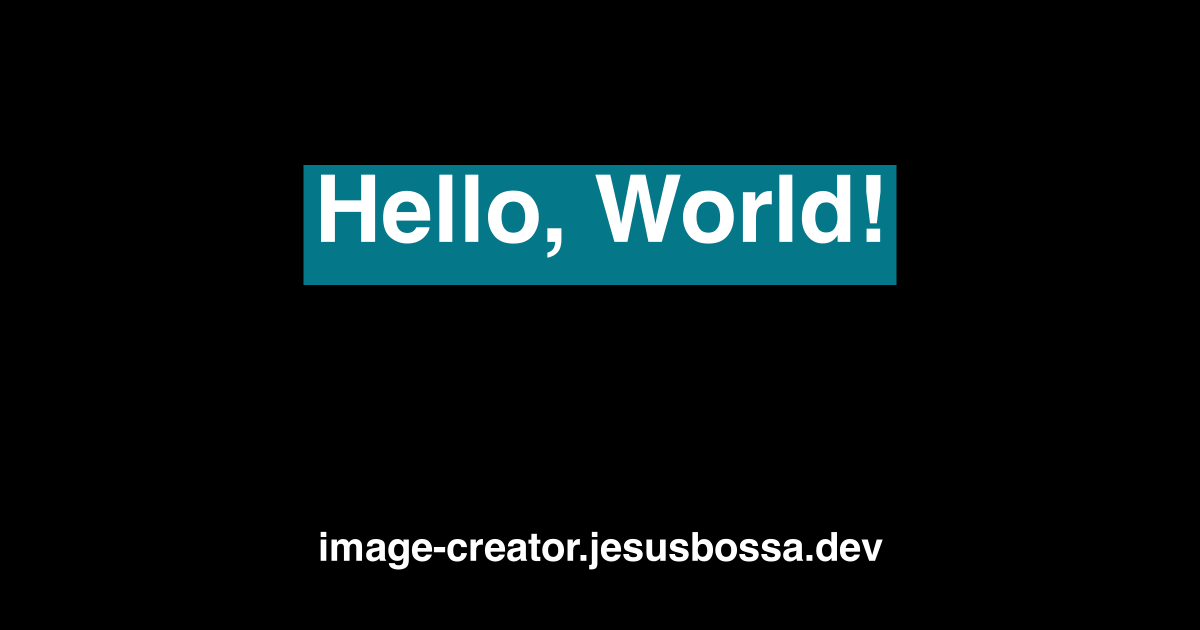
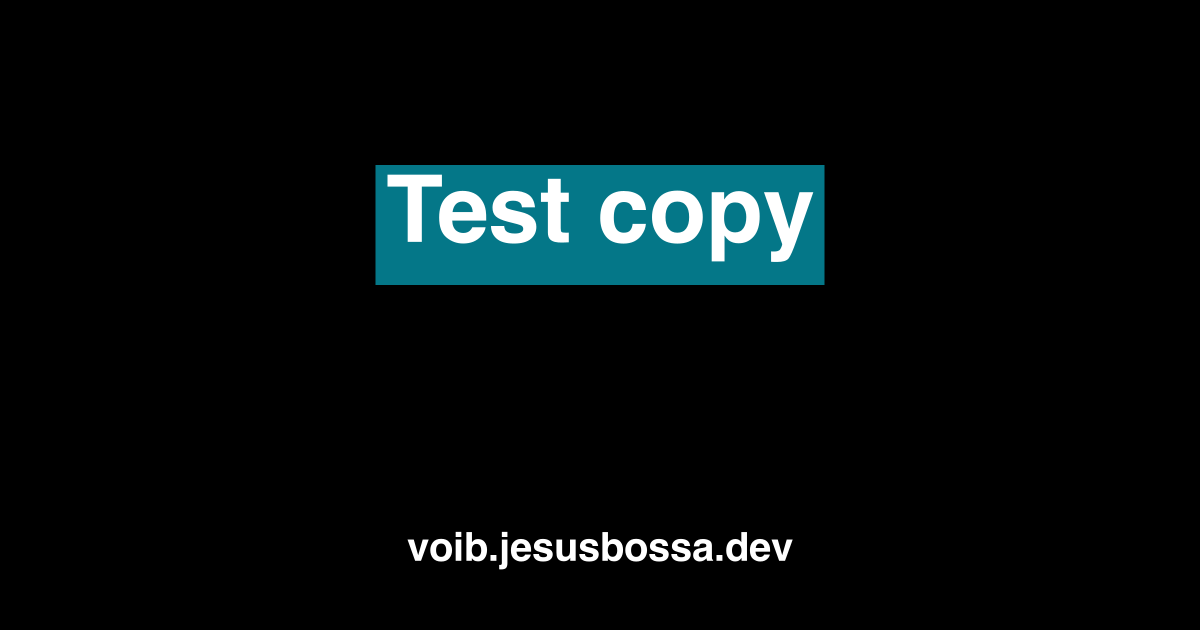
feat: creating images dinamicaly

Changed region(s): [[0.2467, 0.2413, 0.7708, 0.4524], [0.2467, 0.8444, 0.74, 0.9048]]

diff --git a/gatsby-node.js b/gatsby-node.js
@@ -3,22 +3,25 @@ const fs = require('fs');
 const { CreateImage } = require('@makinox/image-creator');
 const { createFilePath } = require('gatsby-source-filesystem');
 
-exports.onCreateNode = ({ node, getNode, actions }) => {
+exports.onCreateNode = async ({ node, getNode, actions }) => {
   if (node.internal.type === `MarkdownRemark`) {
-    // console.log('Creating imagessss');
     const metadata = node.frontmatter;
-    // console.log({ metadata, getNode });
+
     if (metadata.timage === 'no') {
       const imageDir = `./src/images/archive/${metadata.idx}`;
-
+      const filePath = `${imageDir}/0.png`;
+      const relativePath = `../images/archive/${metadata.idx}/0.png`;
       if (!fs.existsSync(imageDir)) {
         fs.mkdirSync(imageDir);
       }
 
-      CreateImage({ filePath: `${imageDir}/0.png` })
-        .then(created => console.log({ created }))
-        .catch(err => console.error({ err }));
+      const created = await CreateImage({ filePath, textTitle: metadata.title, subText: 'voib.jesusbossa.dev' });
+      if (created) {
+        metadata.timage = relativePath;
+      }
     }
+
+    node.frontmatter = metadata;
     const slug = createFilePath({ node, getNode, basePath: `pages` });
     actions.createNodeField({
       node,
